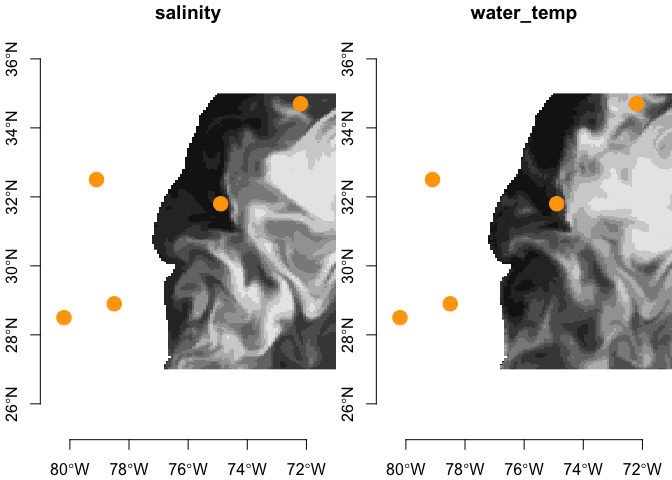
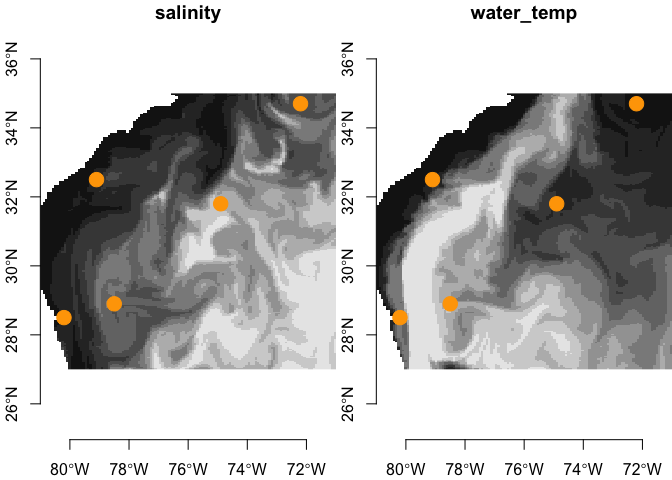
rerun README

diff --git a/README.md b/README.md
@@ -138,7 +138,7 @@ X
     ##         double tau[time]   
     ##             long_name: Tau
     ##             units: hours since analysis
-    ##             time_origin: 2023-09-19 12:00:00
+    ##             time_origin: 2023-09-20 12:00:00
     ##             NAVO_code: 56
     ##         short water_temp[lon,lat,depth,time]   
     ##             long_name: Water Temperature
@@ -201,7 +201,7 @@ X
     ##             modulo: 360 degrees
     ##             axis: X
     ##             NAVO_code: 2
-    ##         time  Size:14001 
+    ##         time  Size:14009 
     ##             long_name: Valid Time
     ##             units: hours since 2000-01-01 00:00:00
     ##             time_origin: 2000-01-01 00:00:00
@@ -297,9 +297,9 @@ cat("tail of time\n")
 tail(time)
 ```
 
-    ## [1] "2023-09-19 18:00:00 UTC" "2023-09-19 21:00:00 UTC"
-    ## [3] "2023-09-20 00:00:00 UTC" "2023-09-20 03:00:00 UTC"
-    ## [5] "2023-09-20 06:00:00 UTC" "2023-09-20 09:00:00 UTC"
+    ## [1] "2023-09-20 18:00:00 UTC" "2023-09-20 21:00:00 UTC"
+    ## [3] "2023-09-21 00:00:00 UTC" "2023-09-21 03:00:00 UTC"
+    ## [5] "2023-09-21 06:00:00 UTC" "2023-09-21 09:00:00 UTC"
 
 It looks like every three hours since Dec 4, 2018. We can just pick time
 in that range (it doesn’t have to be extact as we interpolate.)
@@ -335,16 +335,16 @@ the software will interpolate to one of the set depths.
 ``` r
 covars <- extract(box_360, X, 
                   time = as.POSIXct("2020-01-06 09:00:00", tz = 'UTC'),
-                  depth = 2000,
+                  depth = 2,
                   varname = c('salinity', 'water_temp'))
 covars
 ```
 
     ## stars object with 2 dimensions and 2 attributes
     ## attribute(s):
-    ##                  Min.   1st Qu.    Median      Mean   3rd Qu.      Max.  NA's
-    ## salinity    35.005001 35.061001 35.079001 35.071116 35.087001 35.115001 11498
-    ## water_temp   3.100999  3.685999  3.811999  3.776018  3.890999  4.078999 11498
+    ##               Min. 1st Qu. Median     Mean 3rd Qu.   Max. NA's
+    ## salinity    30.891  36.364 36.530 36.46857  36.631 36.784 2552
+    ## water_temp  13.199  22.054 23.312 22.87837  24.392 26.125 2552
     ## dimension(s):
     ##   from  to offset   delta refsys x/y
     ## x    1 127    279 0.07874 WGS 84 [x]
